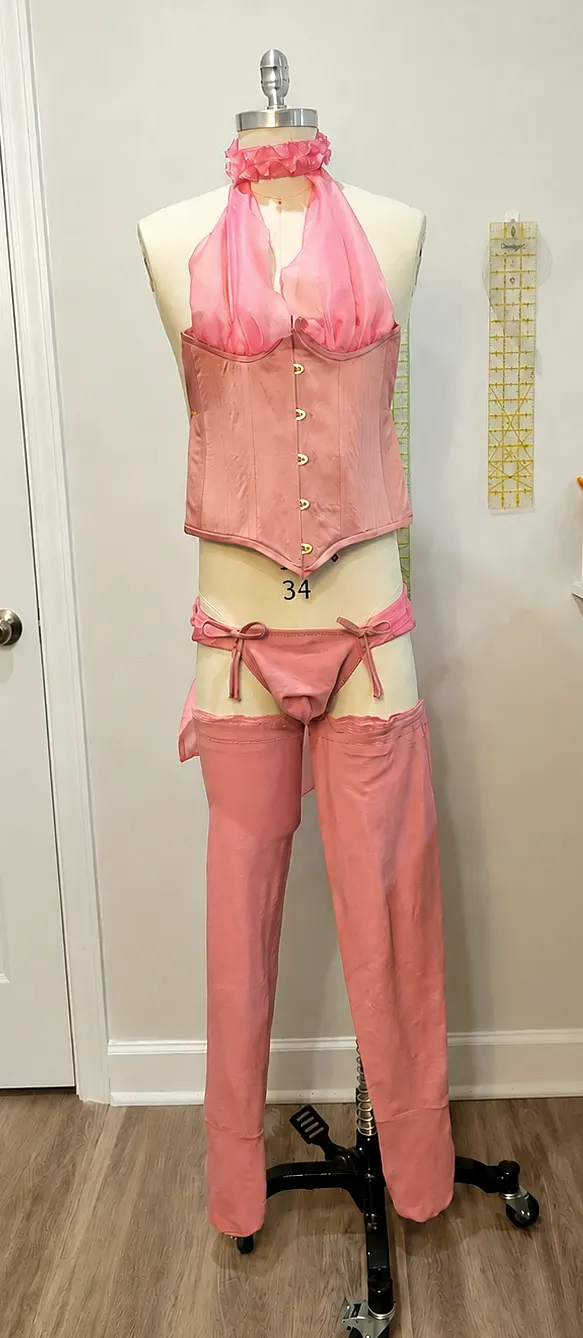
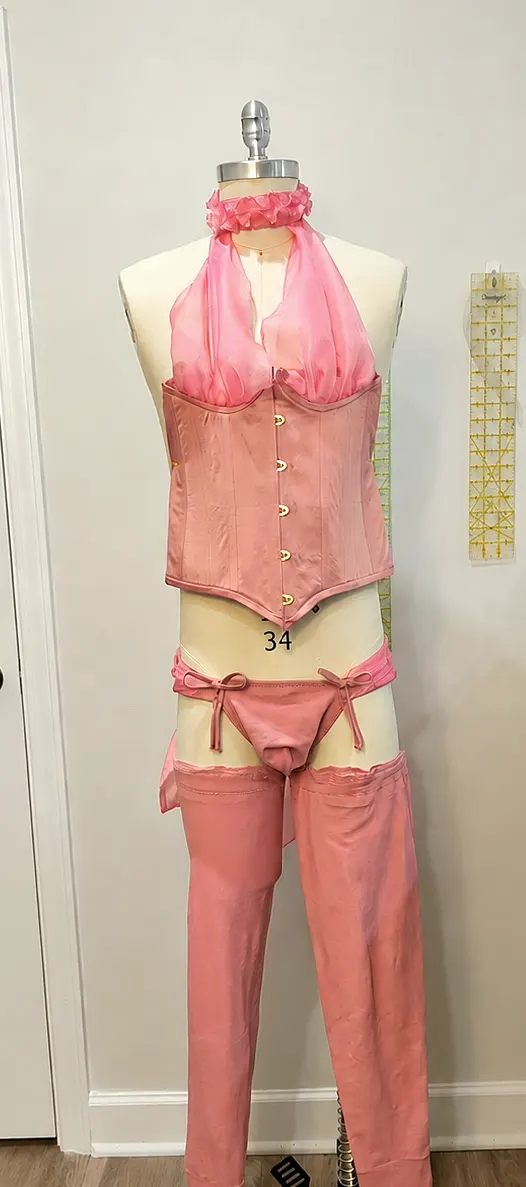
Fashion tab: tighter KPC/Soyon display crops, corset back-view display, CLO | 3D naming, update contact email

diff --git a/src/data/projects.js b/src/data/projects.js
@@ -37,7 +37,7 @@ const raw = [
     crossLink: {
       image: '/images/arcadia-pattern/cover.jpg',
       to: 'arcadia-pattern',
-      label: 'View CLO 3D pattern',
+      label: 'View CLO | 3D pattern',
     },
   },
   {
@@ -55,7 +55,7 @@ const raw = [
     crossLink: {
       image: '/images/skating-costume/g03.png',
       to: 'skating-costume-pattern',
-      label: 'View CLO 3D pattern',
+      label: 'View CLO | 3D pattern',
     },
   },
   {
@@ -103,7 +103,7 @@ const raw = [
     crossLink: {
       image: '/images/lilac-fairy/g03.jpg',
       to: 'lilac-fairy-pattern',
-      label: 'View CLO 3D pattern',
+      label: 'View CLO | 3D pattern',
     },
   },
   {
@@ -185,7 +185,7 @@ const raw = [
     crossLink: {
       image: '/images/konpan-coat/g04.png',
       to: 'konpan-coat-pattern',
-      label: 'View CLO 3D pattern',
+      label: 'View CLO | 3D pattern',
     },
   },
   {
@@ -238,13 +238,13 @@ const raw = [
     description: 'A studded and painted transgender pride-themed jacket.',
   },
 
-  // ---------------- DIGITAL PATTERNING (CLO 3D) ----------------
+  // ---------------- DIGITAL PATTERNING (CLO | 3D) ----------------
   {
     slug: 'arcadia-pattern',
     title: 'Arcadia',
     category: 'digital-patterning',
     date: '2026',
-    description: 'Digital patterning and 3D simulation in CLO 3D for the *Arcadia* Regency suit.',
+    description: 'Digital patterning and 3D simulation in CLO | 3D for the *Arcadia* Regency suit.',
     credits: { production: 'Arcadia', company: 'Carnegie Mellon University', designer: 'Pei Liu' },
     crossLink: {
       image: '/images/arcadia/cover.jpg',
@@ -256,10 +256,10 @@ const raw = [
     slug: 'konpan-coat-pattern',
     title: 'KonPan Coat',
     category: 'digital-patterning',
-    // Use the CLO 3D pattern-development render as the cover so the category
+    // Use the CLO | 3D pattern-development render as the cover so the category
     // preview shows an actual digital pattern.
     coverImage: '/images/konpan-coat/g04.png',
-    description: 'The KonPan coat, digitally patterned in CLO 3D.',
+    description: 'The KonPan coat, digitally patterned in CLO | 3D.',
     crossLink: {
       image: '/images/konpan-coat/g01.jpg',
       to: 'konpan-coat',
@@ -271,7 +271,7 @@ const raw = [
     title: 'Skating Costume',
     category: 'digital-patterning',
     date: '2026',
-    description: 'CLO 3D digital patterning and simulation for the *Bolero* skating costume.',
+    description: 'CLO | 3D digital patterning and simulation for the *Bolero* skating costume.',
     credits: {
       type: 'Class Project',
       class: 'Stretchwear',
@@ -288,7 +288,7 @@ const raw = [
     title: 'The Lilac Fairy',
     category: 'digital-patterning',
     date: '2025',
-    description: 'CLO 3D digital patterning for the Lilac Fairy ballet bodice.',
+    description: 'CLO | 3D digital patterning for the Lilac Fairy ballet bodice.',
     credits: {
       type: 'Class Project (Dancewear)',
     },

diff --git a/src/components/HomeTiles.jsx b/src/components/HomeTiles.jsx
@@ -7,7 +7,7 @@ import Thumb from './Thumb.jsx'
 // Each tile's text sits in a translucent shadowbox for readability.
 export default function HomeTiles() {
   // Chosen cover per category tile (overrides the first project's cover).
-  // Fashion shows the KonPan coat; Digital Patterning shows a CLO 3D render.
+  // Fashion shows the KonPan coat; Digital Patterning shows a CLO | 3D render.
   const tileCover = {
     fashion: '/images/trespassing-jacket/tile.jpg',
     'digital-patterning': '/images/arcadia-pattern/cover.jpg',

diff --git a/src/data/media.js b/src/data/media.js
@@ -207,10 +207,10 @@ export const media = {
     ],
   },
   'strapped-corset-top': {
-    cover: '/images/strapped-corset-top/g03.jpg',
+    cover: '/images/strapped-corset-top/cover.png',
     gallery: [
+      '/images/strapped-corset-top/g03.jpg',
       '/images/strapped-corset-top/g05.jpg',
-      '/images/strapped-corset-top/cover.png',
       '/images/strapped-corset-top/g06.jpg',
       '/images/strapped-corset-top/g01.jpg',
       '/images/strapped-corset-top/g02.jpg',

diff --git a/src/data/site.js b/src/data/site.js
@@ -4,7 +4,7 @@ export const site = {
   name: 'Brandon Eridan',
   role: 'Costume Technician | Digital Patternmaker',
   location: 'Pittsburgh, PA',
-  email: 'rmeichs75@gmail.com',
+  email: 'selvedgedesigned@gmail.com',
 
   // Commission Google Form (from his Linktree).
   commissionFormUrl:

diff --git a/DESIGN.md b/DESIGN.md
@@ -117,7 +117,7 @@ order within each category follows his live galleries at
 `rmeichs75.wixsite.com/brandon-eridan`.
 
 **Contact / links:**
-- Email **rmeichs75@gmail.com**
+- Email **selvedgedesigned@gmail.com**
 - Instagram **@saint_ends**
 - Résumé: converted from his `.docx` to repo-hosted **`/resume.pdf`** (opens in a new tab).
 - Commission **Google Form:** `https://docs.google.com/forms/d/e/1FAIpQLSdt6W1e_Kkcp68TuP1WuQLqypOshJlao_LViDmDsxdxtR9geg/viewform` (link-out button).
@@ -127,7 +127,7 @@ order within each category follows his live galleries at
 **Category descriptions:**
 - Costumes — "Pieces made for productions, personal costumes, and cosplays."
 - Fashion — "Clothing pieces for self, others, or class projects."
-- Digital Patterning — "Digital patterns and projects created in CLO 3D."
+- Digital Patterning — "Projects created in CLO | 3D"
 
 ### Build status
 - **Images:** real photos live in `public/images/<slug>/` (cover + gallery), with
